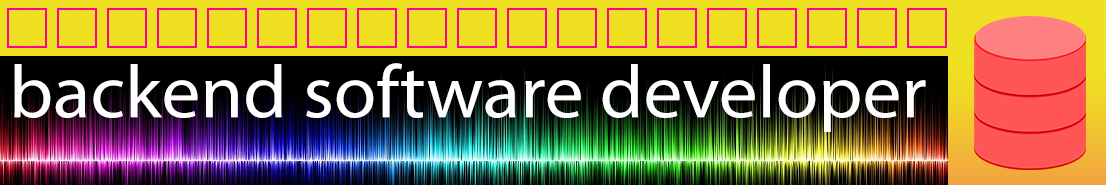
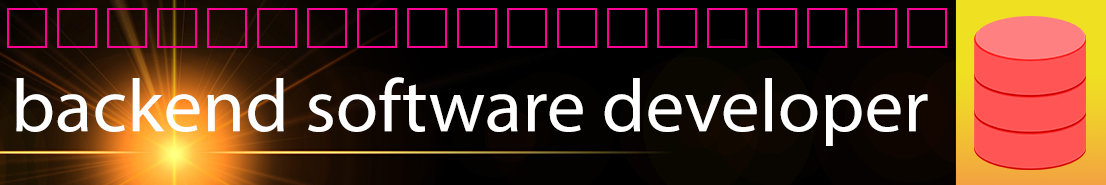
changes

diff --git a/README.md b/README.md
@@ -1,21 +1,20 @@
 ![Banner Image](banner.png)
 
-## Database Design
+## Databases, Modeling Tools and Browsers
 
 * [MySQL](https://www.mysql.com/), [MariaDB](https://mariadb.org/), [SQLite](https://www.sqlite.org/)
+* Earlier: [PostgreSQL](https://www.postgresql.org/)
 * Database Diagramming with: [DBSchema](https://dbschema.com/), [Workbench](https://www.mysql.com/products/workbench/design/)
 * Database Browsers: [HeidiSQL](https://www.heidisql.com/), [SQLYog Community](https://github.com/webyog/sqlyog-community/wiki/Downloads), [DB Browser for SQLite](https://sqlitebrowser.org), [DataGrip](https://www.jetbrains.com/datagrip/)
-* Earlier: [PostgreSQL](https://www.postgresql.org/)
+* PHPMyAdmin, 
 
 
-## Team Leadership in Software Development and Integration
+## Team Leadership in Software Development
 
-* Web Development
 * Software Analysis
 * Project Management
 * [OpenCart E-Commerce](https://www.opencart.com)
-* [Paypal](https://www.paypal.com/)
-* Payment API and Gateways Integration
+* [Paypal](https://www.paypal.com/), Payment API and Gateways Integration
 
 
 ## Core Web Development
@@ -58,16 +57,12 @@
 * [MSTest](https://docs.microsoft.com/en-us/dotnet/core/testing/unit-testing-with-mstest)
 
 
-## IDEs
+## IDEs and Code Editors
 
 * [Visual Studio](https://visualstudio.microsoft.com/)
 * [Netbeans](https://netbeans.apache.org/)
 * [PyCharm](https://www.jetbrains.com/pycharm/)
 * [PHPStorm](https://www.jetbrains.com/phpstorm/)
-
-
-## Code Editors
-
 * [Notepad++](https://notepad-plus-plus.org)
 * [Visual Code](https://code.visualstudio.com/)
 
@@ -79,15 +74,16 @@
 * [Balsamiq](https://balsamiq.com/)
 
 
-## Browsers
-
+## Browsers, Connectors and Terminals
 * [Opera](https://www.opera.com/)
 * [Chrome](https://www.google.com/intl/en_ca/chrome/)
 * [Firefox](https://www.mozilla.org/en-US/)
 * [FileZilla](https://filezilla-project.org/) Client/Server
+* [SmarTTY](https://sysprogs.com/SmarTTY/) - multi-tabbed SSH client
+* [ConEmu Windows Terminal](https://conemu.github.io/)
 
 
-## Project Management and Collaboration Tools
+## Collaboration Tools
 * [Redmine](https://www.redmine.org/)
 * [MantisBT](https://www.mantisbt.org/)
 * [OnlyOffice](https://www.onlyoffice.com)
@@ -95,13 +91,20 @@
 
 ## Version Control, DevOps
 
-* Self hosted: Git, SVN
+* Self hosted: SVN, Git
 * [GitHub](https://github.com/)
 * [BitBucket](https://bitbucket.org/)
 * [TrortoiseSVN](https://tortoisesvn.net/downloads.html), [TortoiseGit](https://tortoisegit.org/download/)
 
 
-## Profiles
+## Credits
+
+* [Database Image](https://pixabay.com/vectors/database-storage-cylinder-data-2025620/)
+* [Background Light](https://pixabay.com/vectors/database-storage-cylinder-data-2025620/)
+* [GitHub](https://github.com/)
+
+
+## Profiles Links
 
 * [GitHub](https://github.com/anytizer/) - Projects
 * [WordPress](https://profiles.wordpress.org/pbimal/#content-plugins) - Plugins
